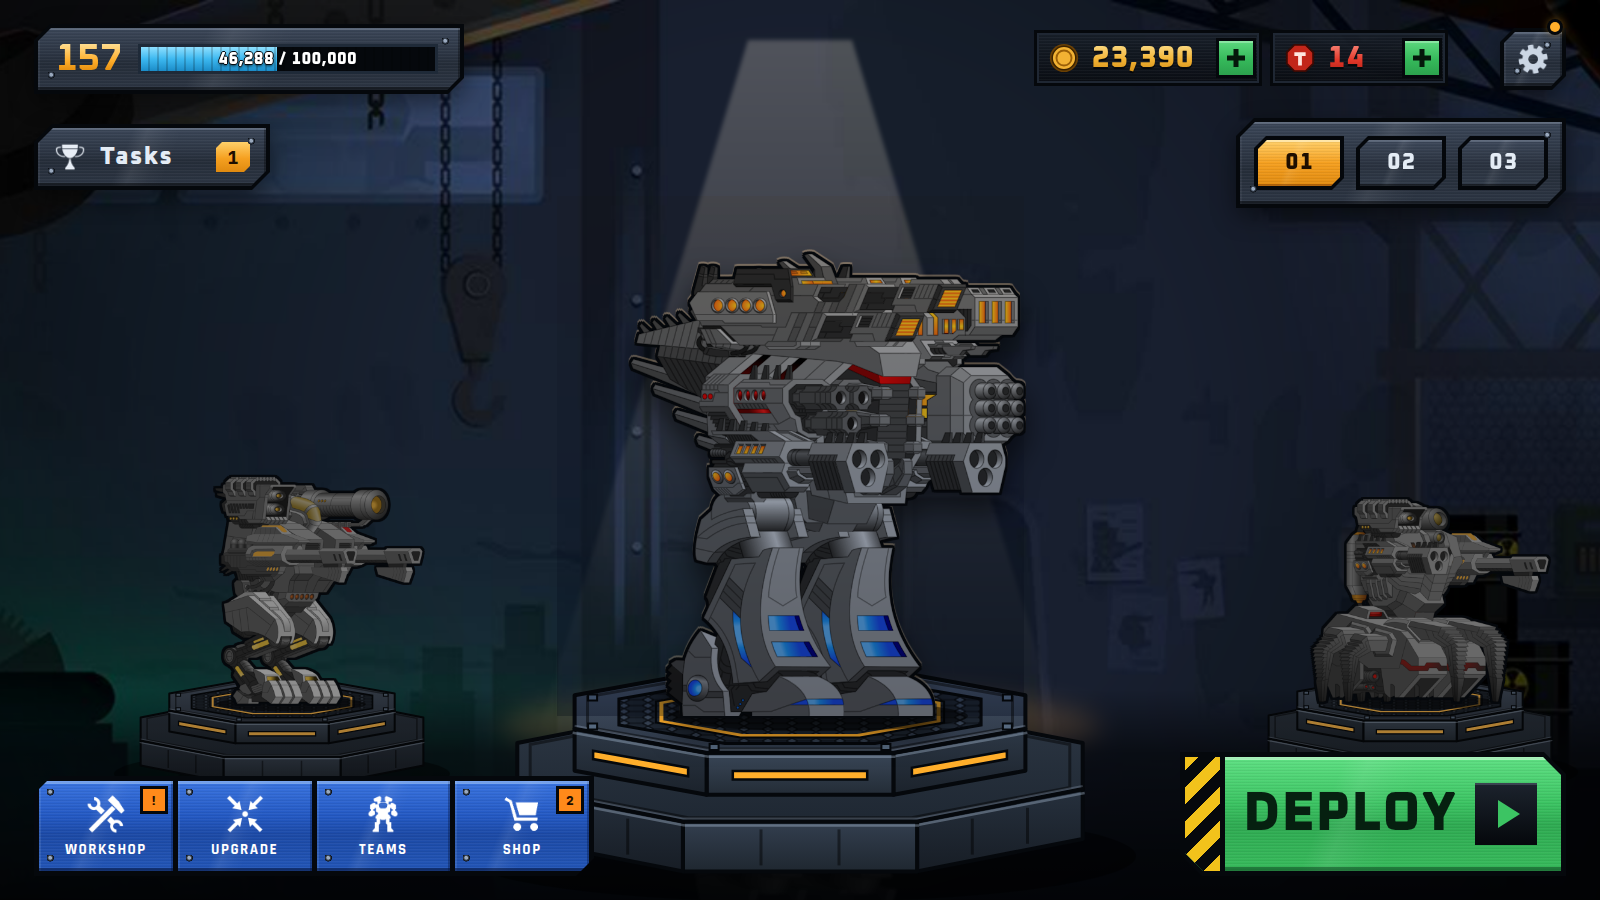
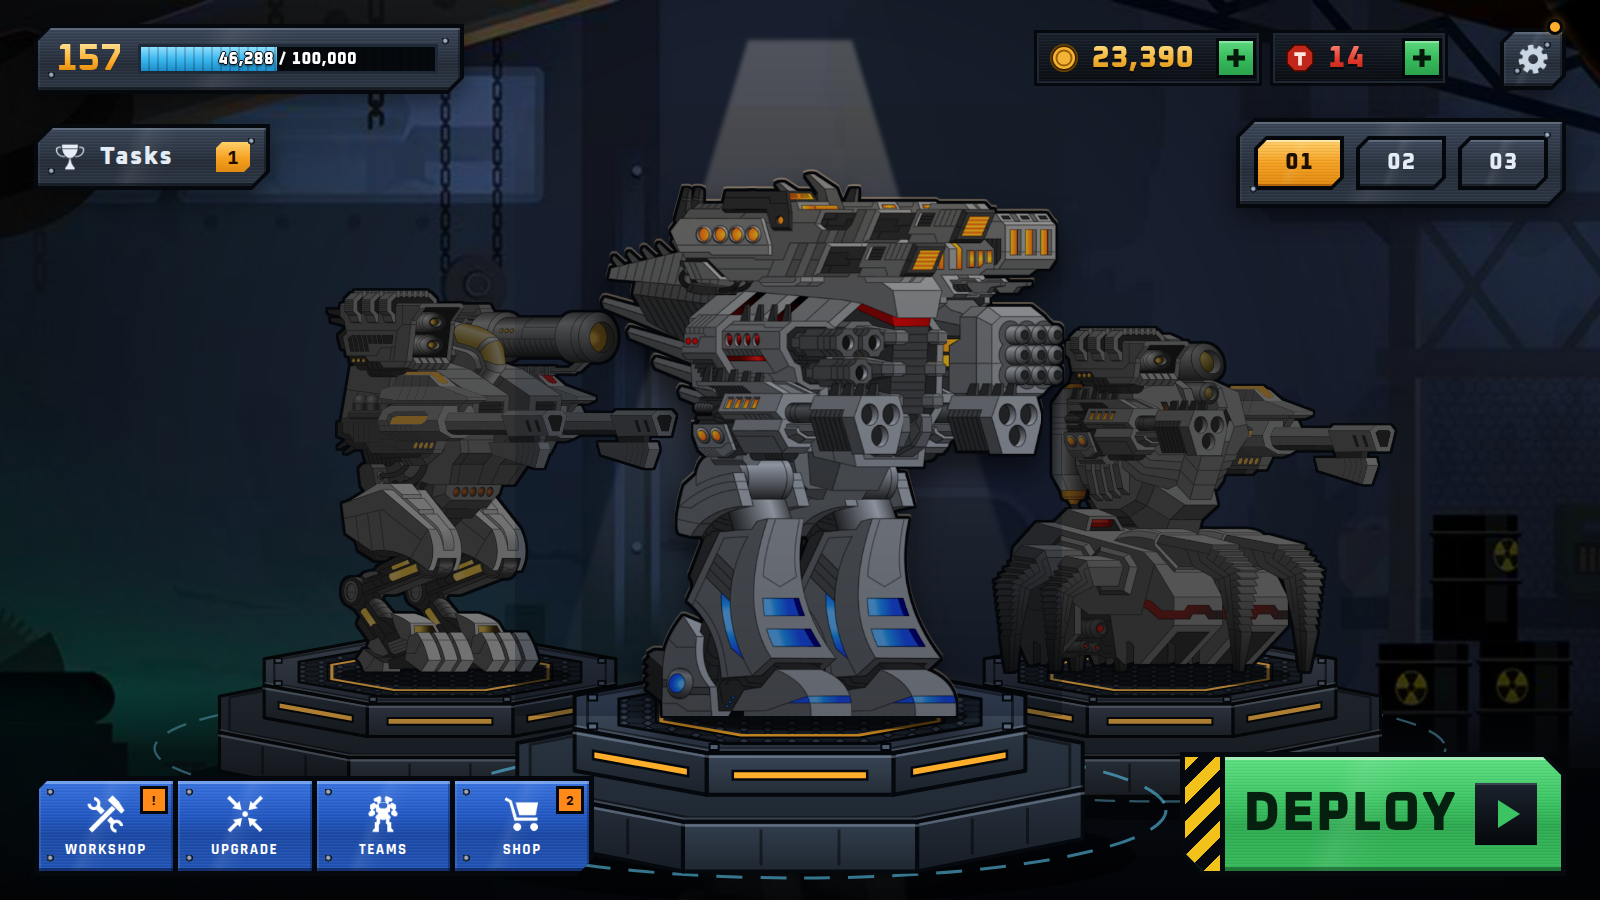
Bigger mechs, closer together, on the game hangar
Main mech 610px tall; side mechs 420/390px moved in to x 440 and 1160 on
0.78-scale pedestals, slightly dimmed for depth. build_pedestal.py now takes
the target file and side positions as arguments.

Claude-Session: https://claude.ai/code/session_016EMeU7WbdybdkHaQ4QiAx5

Changed region(s): [[0.0938, 0.1867, 0.9688, 0.8711]]

diff --git a/ui/mocks/H-bay.html b/ui/mocks/H-bay.html
@@ -177,7 +177,7 @@ canvas{position:absolute;left:0;top:0;width:1600px;height:900px}
 #refl{position:absolute;z-index:3;transform:scaleY(-1);opacity:.2;filter:blur(1.5px) saturate(.7);-webkit-mask:linear-gradient(0deg,#000,transparent 55%);mask:linear-gradient(0deg,#000,transparent 55%)}
 #ped{position:absolute;left:0;top:0;z-index:4;pointer-events:none}
 #pedSide{position:absolute;left:0;top:0;z-index:1;pointer-events:none;filter:brightness(.72) saturate(.8)}
-#side1,#side2{position:absolute;z-index:2;filter:brightness(.62) saturate(.75) drop-shadow(2px 0 0 #05080c) drop-shadow(-2px 0 0 #05080c) drop-shadow(0 2px 0 #05080c) drop-shadow(0 -2px 0 #05080c)}
+#side1,#side2{position:absolute;z-index:2;filter:brightness(.5) saturate(.7) drop-shadow(2px 0 0 #05080c) drop-shadow(-2px 0 0 #05080c) drop-shadow(0 2px 0 #05080c) drop-shadow(0 -2px 0 #05080c)}
 
 /* ---- dock ---- */
 .nb{top:778px;width:118px;height:96px;--c:14px}
@@ -229,8 +229,8 @@ canvas{position:absolute;left:0;top:0;width:1600px;height:900px}
   <canvas id="bg" width="3200" height="1800"></canvas>
 
   <svg id="pedSide" width="1600" height="900" viewBox="0 0 1600 900">
-    <use href="#pedMain" transform="translate(282 702) scale(0.5) translate(-800 -712)"/>
-    <use href="#pedMain" transform="translate(1410 700) scale(0.5) translate(-800 -712)"/>
+    <use href="#pedMain" transform="translate(440 672) scale(0.78) translate(-800 -712)"/>
+    <use href="#pedMain" transform="translate(1160 672) scale(0.78) translate(-800 -712)"/>
   </svg>
   <div id="side1"></div><div id="side2"></div>
   <div id="refl"></div>
@@ -250,6 +250,7 @@ canvas{position:absolute;left:0;top:0;width:1600px;height:900px}
     </defs>
     <g id="pedMain">
     <ellipse cx="800" cy="856" rx="336" ry="46" fill="#000" opacity=".45"/>
+    <ellipse id="scan" cx="800" cy="810" rx="366" ry="68" fill="none" stroke="#5fd4ff" stroke-width="3" stroke-dasharray="26 18" opacity=".55"/>
     <path d="M1082.7 789.0 L917.1 821.4 L917.1 871.4 L1082.7 839.0 Z" fill="url(#pf2)" stroke="#05080c" stroke-width="4" stroke-linejoin="round"/>
     <path d="M1084.7 793.0 L915.1 825.4" stroke="rgba(200,220,245,.32)" stroke-width="2.5"/>
     <path d="M1027.5 807.8 L1027.5 843.8" stroke="rgba(0,0,0,.45)" stroke-width="3"/>
@@ -357,8 +358,8 @@ let seed=7; const rnd=()=>(seed=(seed*16807)%2147483647)/2147483647;
 /* ---------------- mechs ---------------- */
 function place(id,key,h,left,top){const w=document.getElementById(id);const i=document.createElement('div');buildMech(i,key,h);w.appendChild(i);w.style.width=i.dataset.w+'px';w.style.height=i.dataset.h+'px';if(left!=null){w.style.left=left+'px';w.style.top=top+'px';}return w;}
 // every mech stands with its feet centred on its pedestal (standOn uses the midpoint between the legs)
-const PED={main:[800,716],left:[282,704],right:[1410,702]};
-const H=520, m=window.MECHS.target, W=m.w*H/m.h, L=PED.main[0]-m.fx*H/m.h, T=PED.main[1]-m.fy*H/m.h;
+const PED={main:[800,716],left:[440,672],right:[1160,672]};
+const H=610, m=window.MECHS.target, W=m.w*H/m.h, L=PED.main[0]-m.fx*H/m.h, T=PED.main[1]-m.fy*H/m.h;
 place('mech','target',H,L,T); place('refl','target',H,L,716-6);
 { const sh=document.getElementById('shade'); sh.style.left=L+'px'; sh.style.top=T+'px'; sh.style.width=W+'px'; sh.style.height=H+'px';
   const src=[...document.querySelectorAll('#mech img')];
@@ -366,8 +367,8 @@ place('mech','target',H,L,T); place('refl','target',H,L,716-6);
   const holder=document.createElement('div'); buildMech(holder,'target',H); sh.appendChild(holder);
   holder.querySelectorAll('img').forEach(i=>{i.style.filter='brightness(0) invert(1)';});
   const grad=document.createElement('div'); grad.style.cssText='position:absolute;inset:0;mix-blend-mode:multiply;background:linear-gradient(180deg,rgba(255,236,210,1) 0%,rgba(150,175,215,1) 55%,rgba(70,90,130,1) 100%)'; sh.appendChild(grad); sh.style.isolation='isolate'; }
-place('side1','m2',250); standOn(document.getElementById('side1'),'m2',250,...PED.left);
-place('side2','m3',230); standOn(document.getElementById('side2'),'m3',230,...PED.right);
+place('side1','m2',420); standOn(document.getElementById('side1'),'m2',420,...PED.left);
+place('side2','m3',390); standOn(document.getElementById('side2'),'m3',390,...PED.right);
 
 
 /* ---------------- dust in the light (animated) ---------------- */

diff --git a/ui/mocks/build_pedestal.py b/ui/mocks/build_pedestal.py
@@ -79,7 +79,9 @@ for (x, y) in pts:
     out.append('<rect x="%.1f" y="%.1f" width="9" height="6" fill="#56697f" stroke="%s" stroke-width="2"/>' % (x - 4.5 + (CX - x) * .08, y - 3 + (TOP_Y - y) * .14, OUT))
 
 # Main pedestal as a reusable group; the side bays reuse it scaled down and dimmed, on a layer behind the side mechs.
-SIDES = [(282, 702, .5), (1410, 700, .5)]   # (centre x, top y where the feet stand, scale)
+import sys
+TARGET = sys.argv[1] if len(sys.argv) > 1 else 'F-bay.html'
+SIDES = [tuple(map(float, v.split(','))) for v in sys.argv[2:]] or [(282, 702, .5), (1410, 700, .5)]   # (centre x, top y, scale)
 svg = ('<svg id="ped" width="1600" height="900" viewBox="0 0 1600 900">\n    <defs>\n'
        '      <pattern id="hex" width="24" height="14" patternUnits="userSpaceOnUse" patternTransform="scale(1,.42)">\n'
        '        <path d="M6 0h12l6 7-6 7H6L0 7z" fill="#1d2530" stroke="#0b0f15" stroke-width="2.5"/>\n      </pattern>\n      '
@@ -87,7 +89,7 @@ svg = ('<svg id="ped" width="1600" height="900" viewBox="0 0 1600 900">\n    <de
 side = ('<svg id="pedSide" width="1600" height="900" viewBox="0 0 1600 900">\n'
         + '\n'.join('    <use href="#pedMain" transform="translate(%g %g) scale(%g) translate(%g %g)"/>' % (x, y, k, -CX, -TOP_Y) for x, y, k in SIDES)
         + '\n  </svg>')
-p = os.path.join(HERE, 'F-bay.html')
+p = os.path.join(HERE, TARGET)
 s = open(p, encoding='utf-8').read()
 s = re.sub(r'<svg id="ped".*?</svg>', lambda m: svg, s, flags=re.S)
 if '<svg id="pedSide"' in s:
